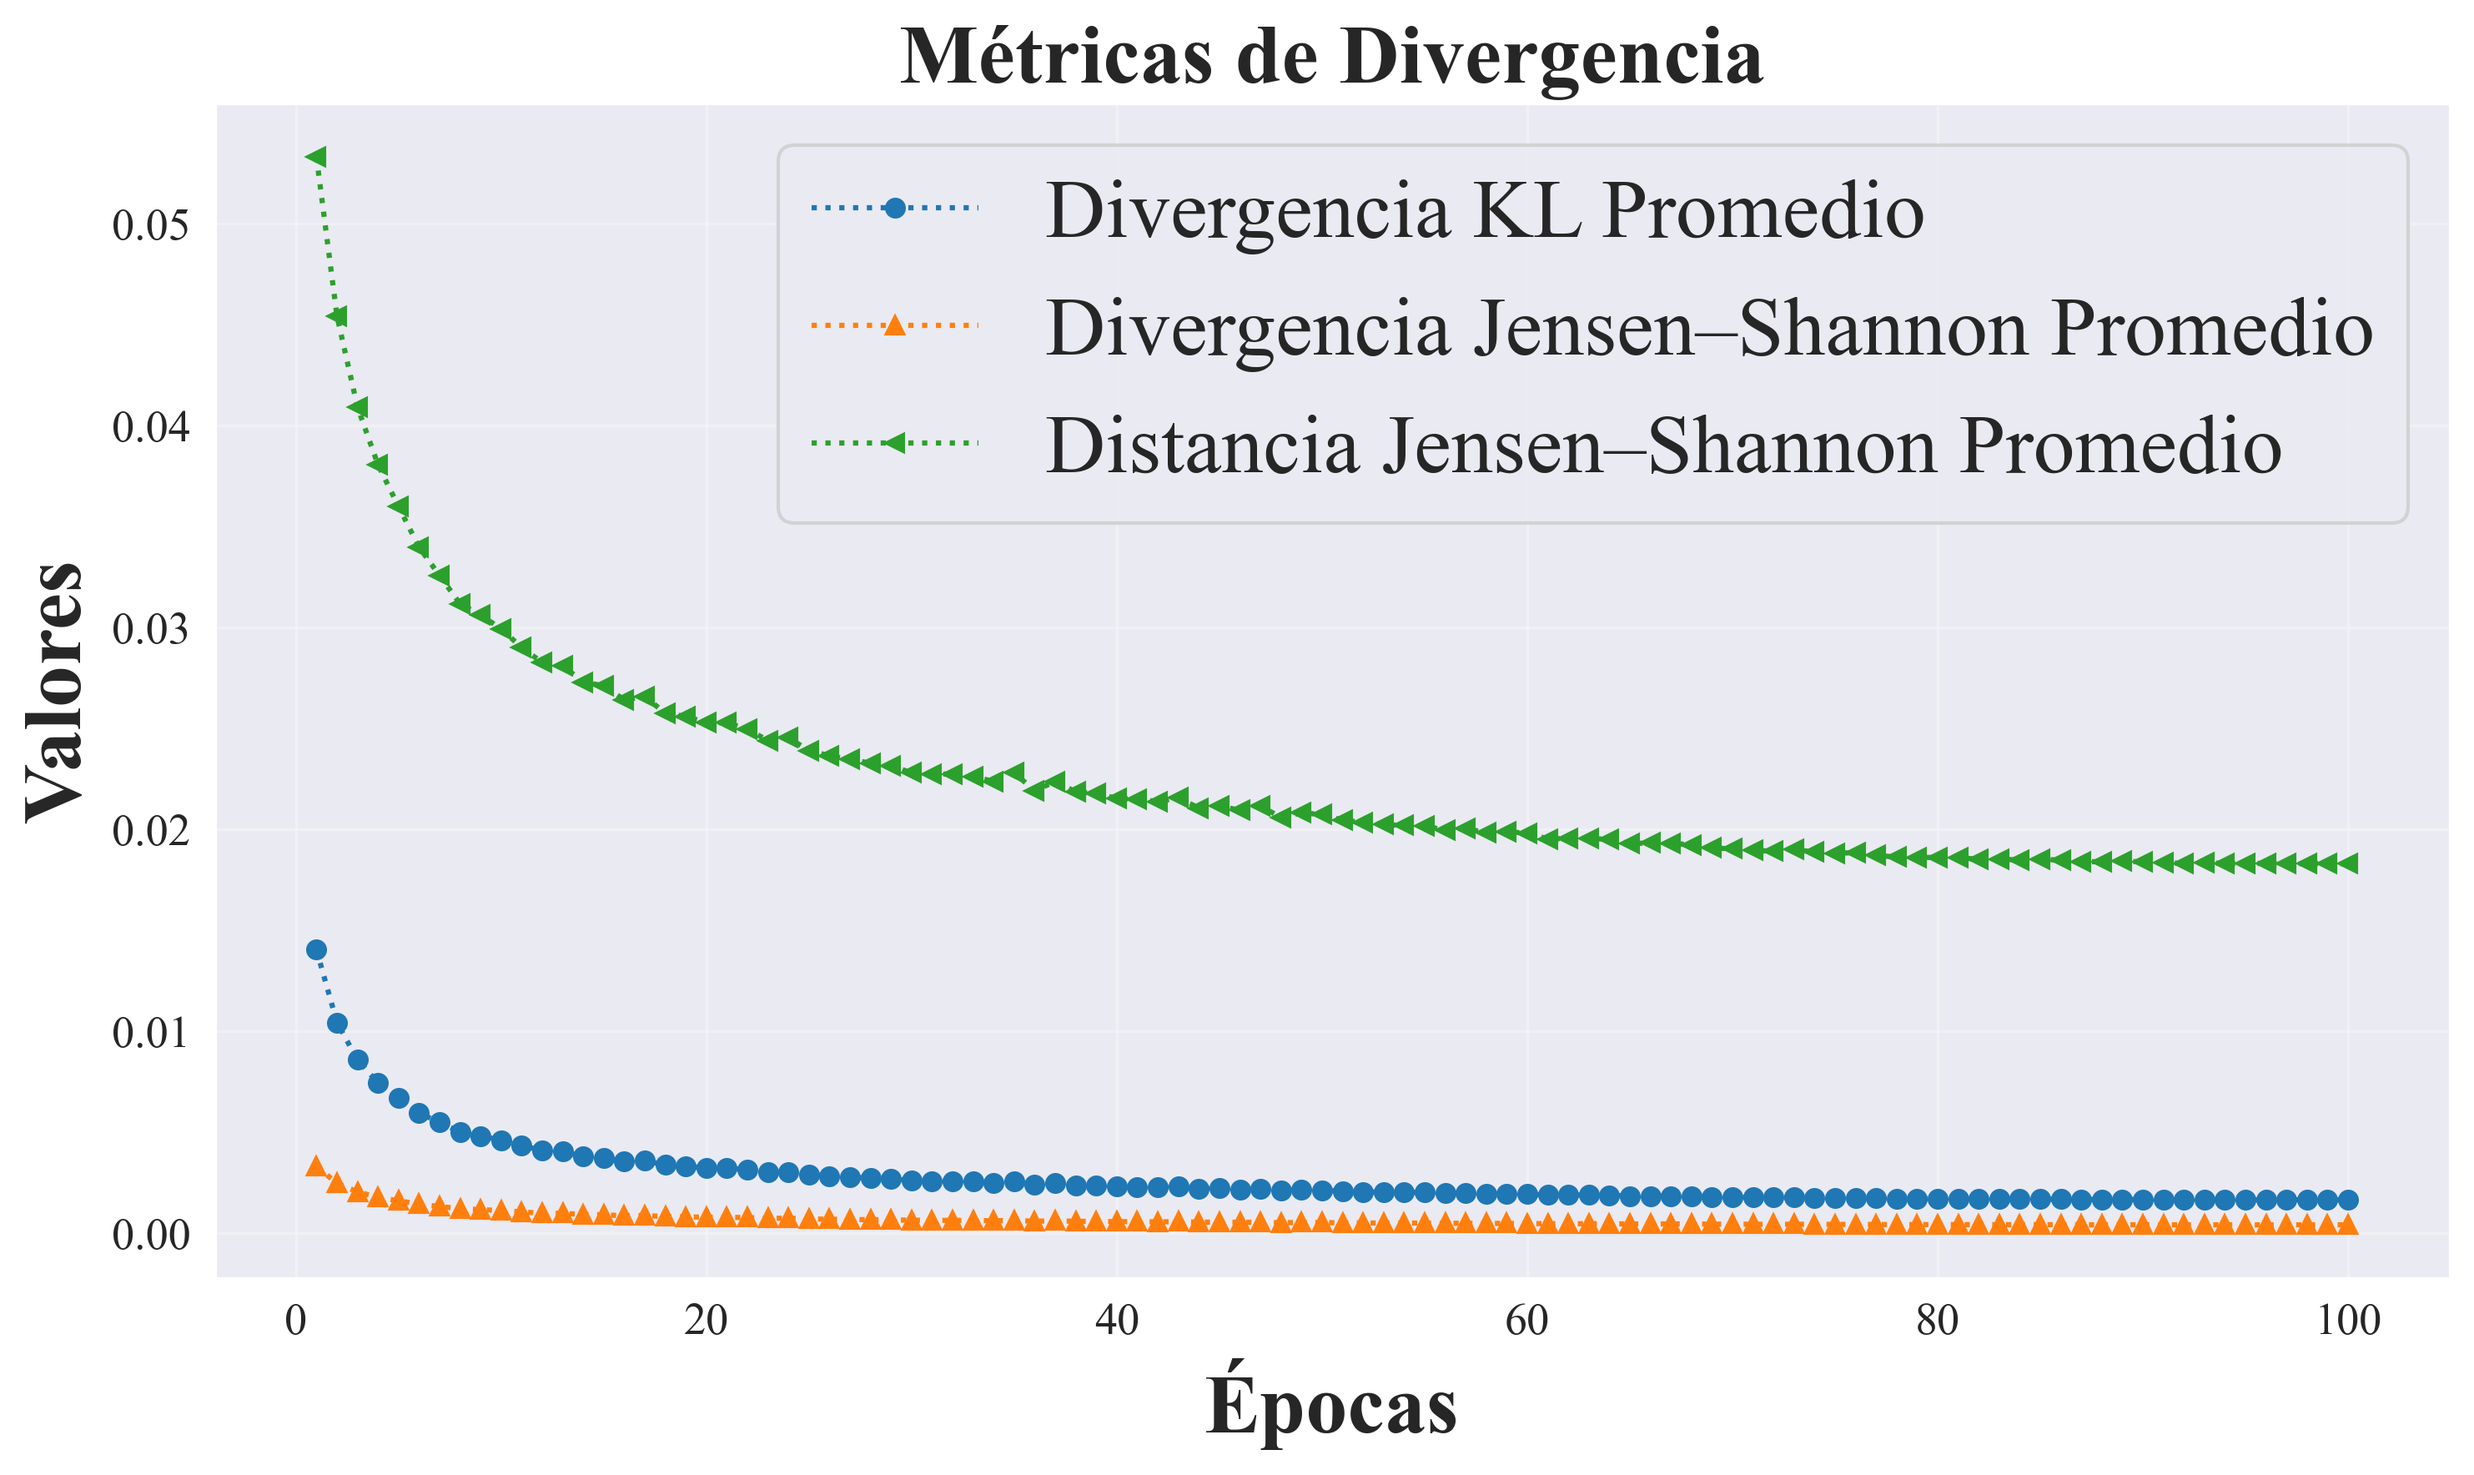
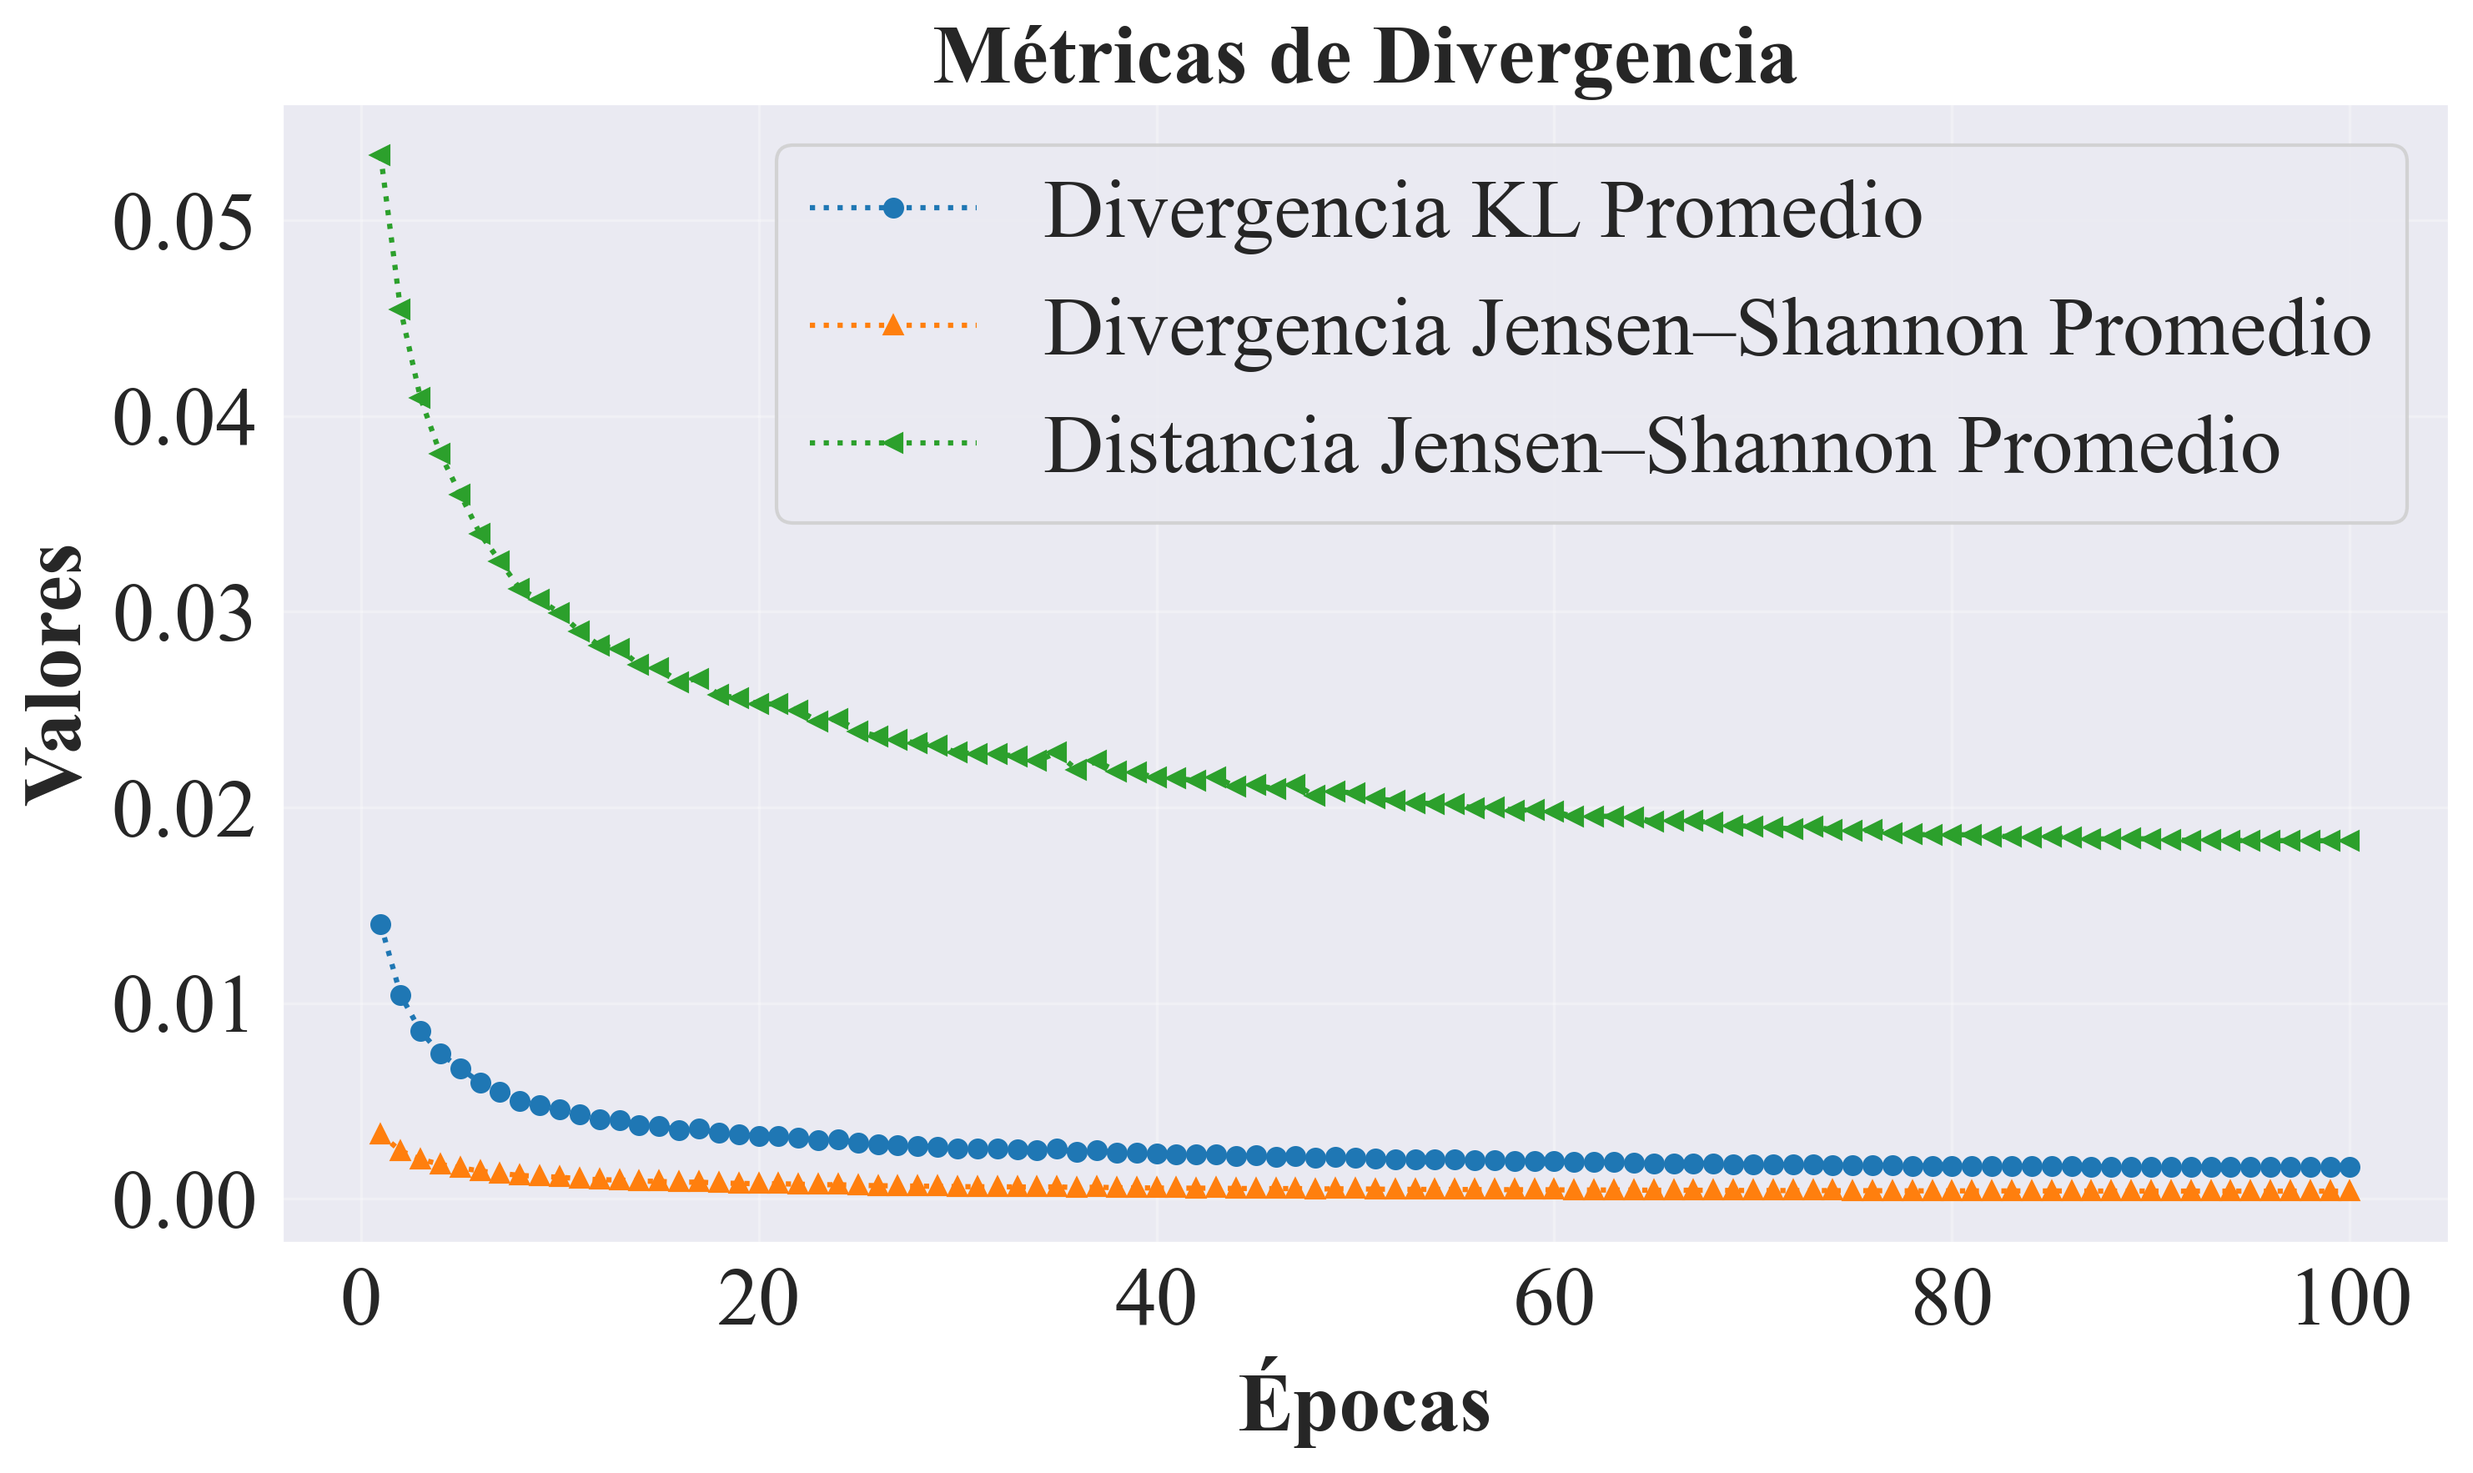
plot

diff --git a/domain_adaptation_plots.py b/domain_adaptation_plots.py
@@ -67,7 +67,7 @@ def plot_train_metrics_one(
     ax.set_title(t["title"], fontsize=24, fontweight="bold")
     ax.set_xlabel(t["x"], fontsize=24, fontweight="bold")
     ax.set_ylabel(t["y"], fontsize=24, fontweight="bold")
-    ax.tick_params(axis="both", labelsize=13)
+    ax.tick_params(axis="both", labelsize=24)
     ax.legend(loc="best", fontsize=24, frameon=True, fancybox=True)
     ax.grid(True, alpha=0.3)
 
